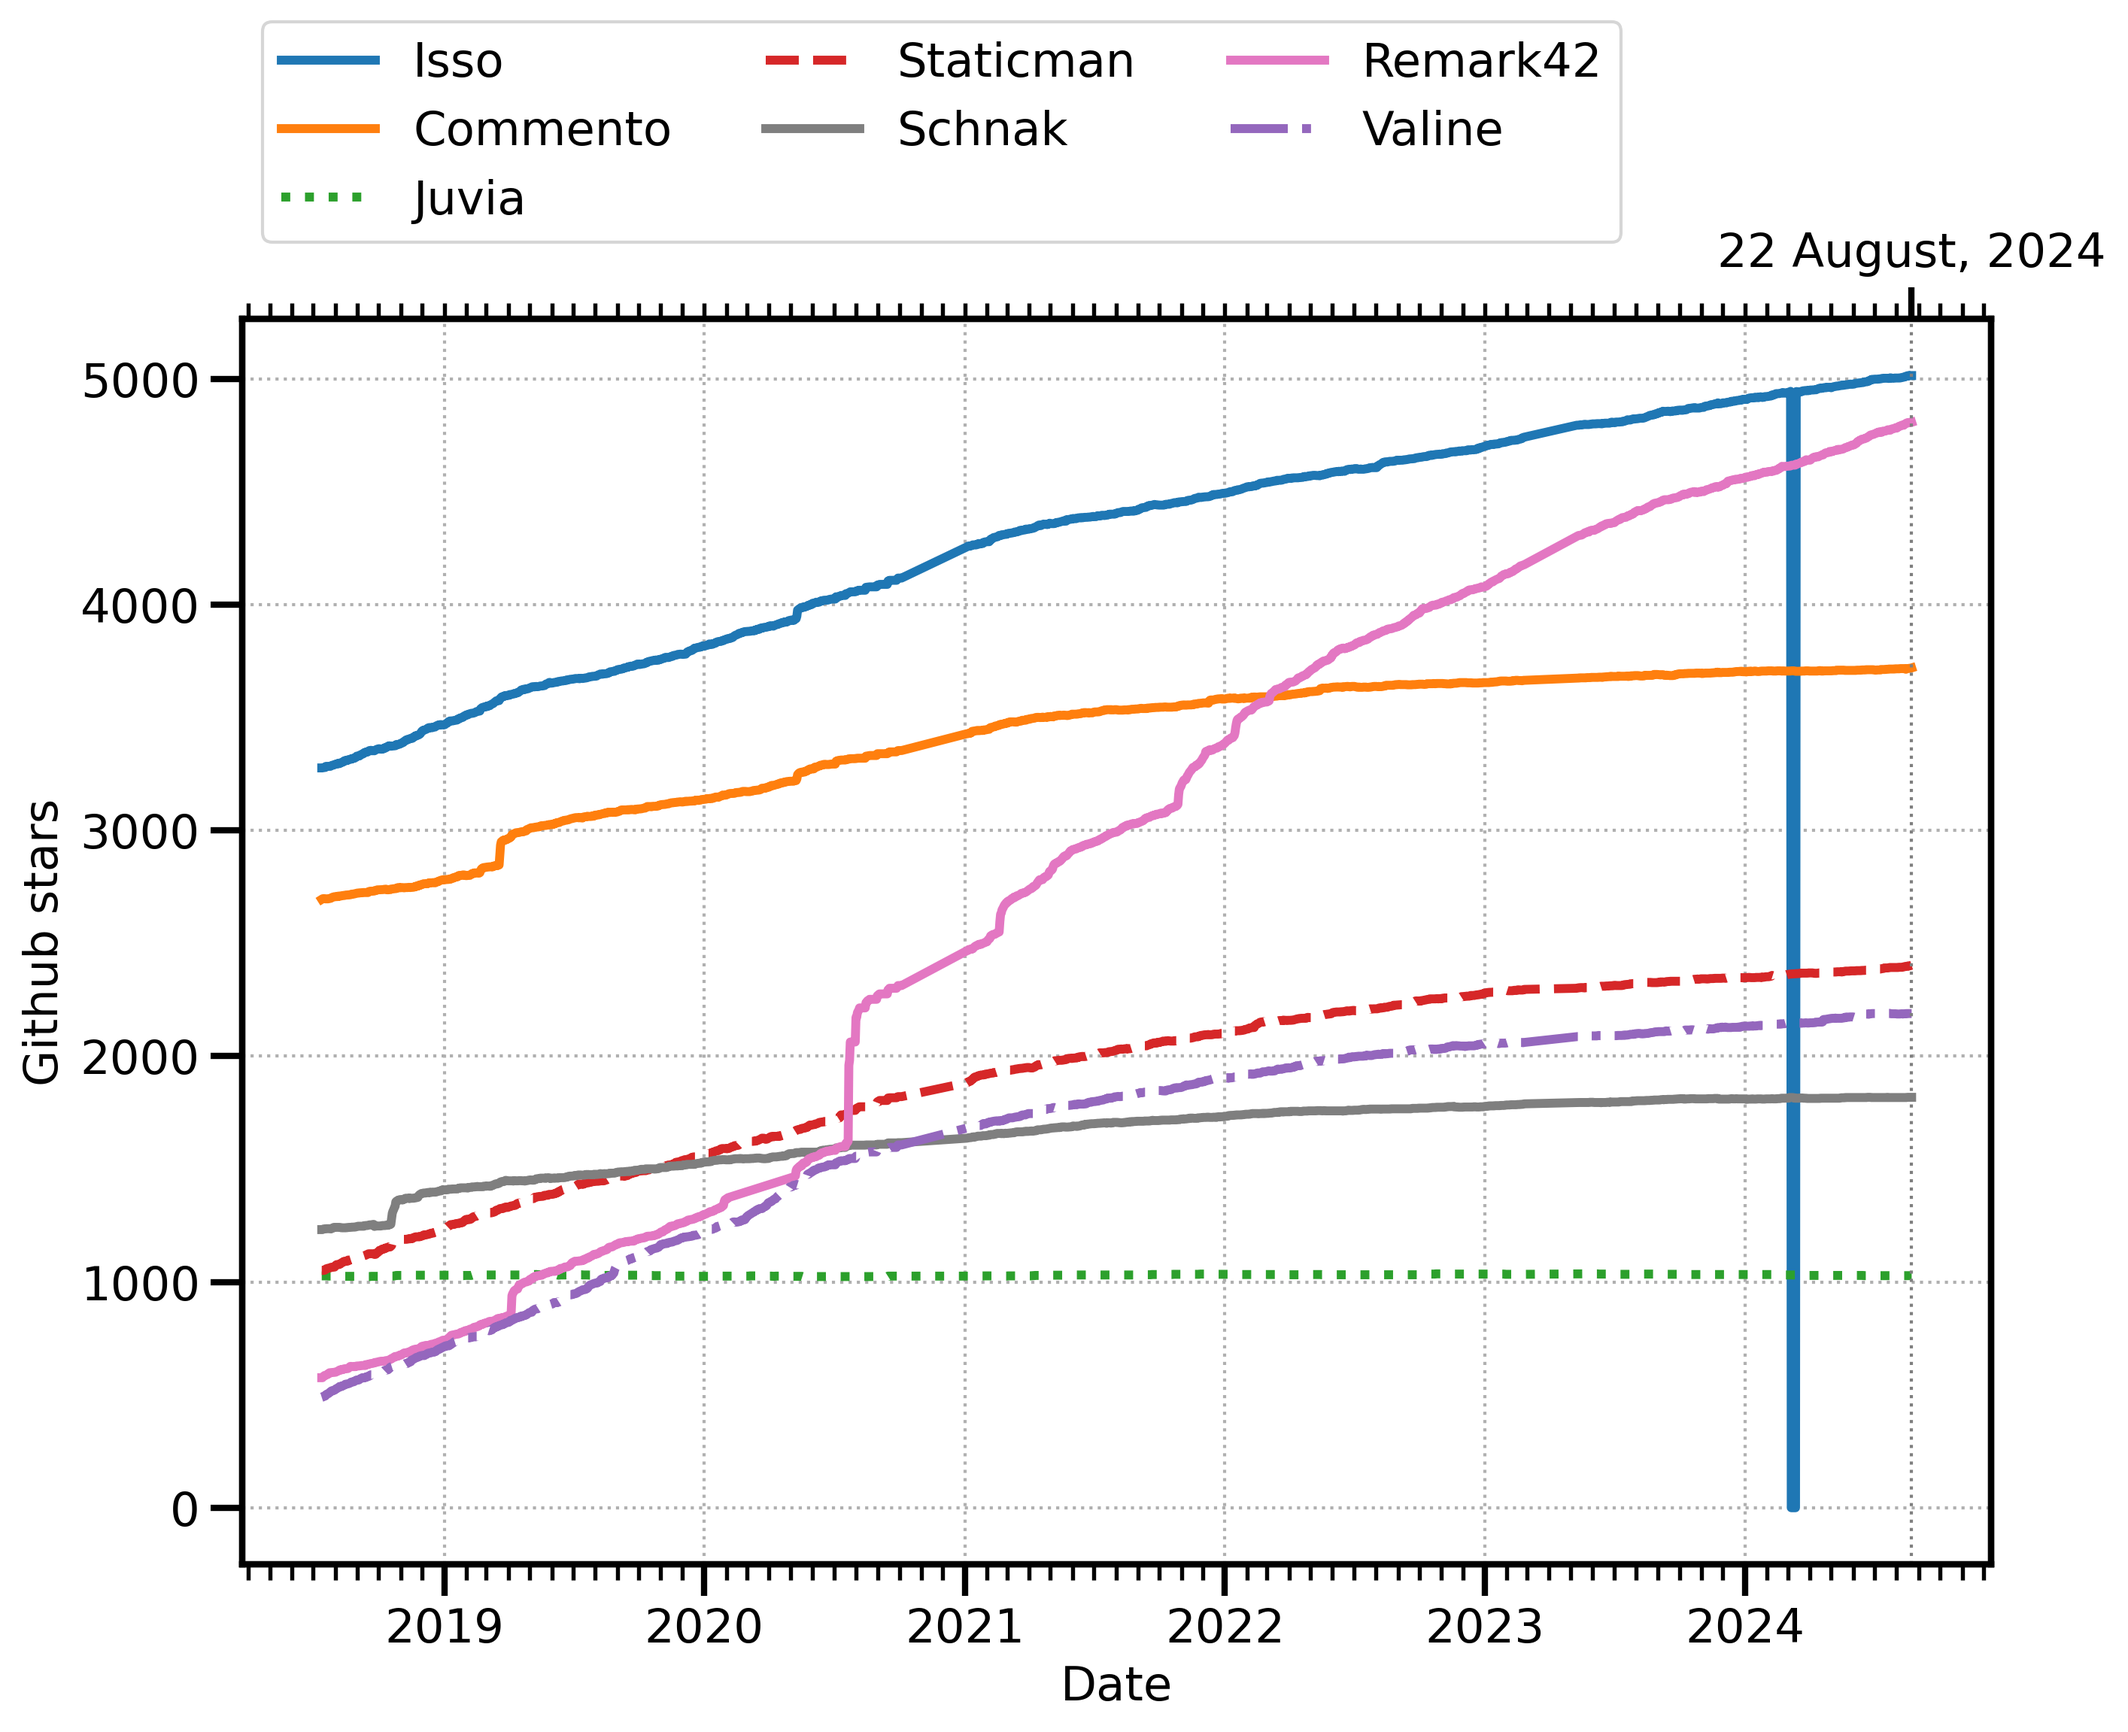
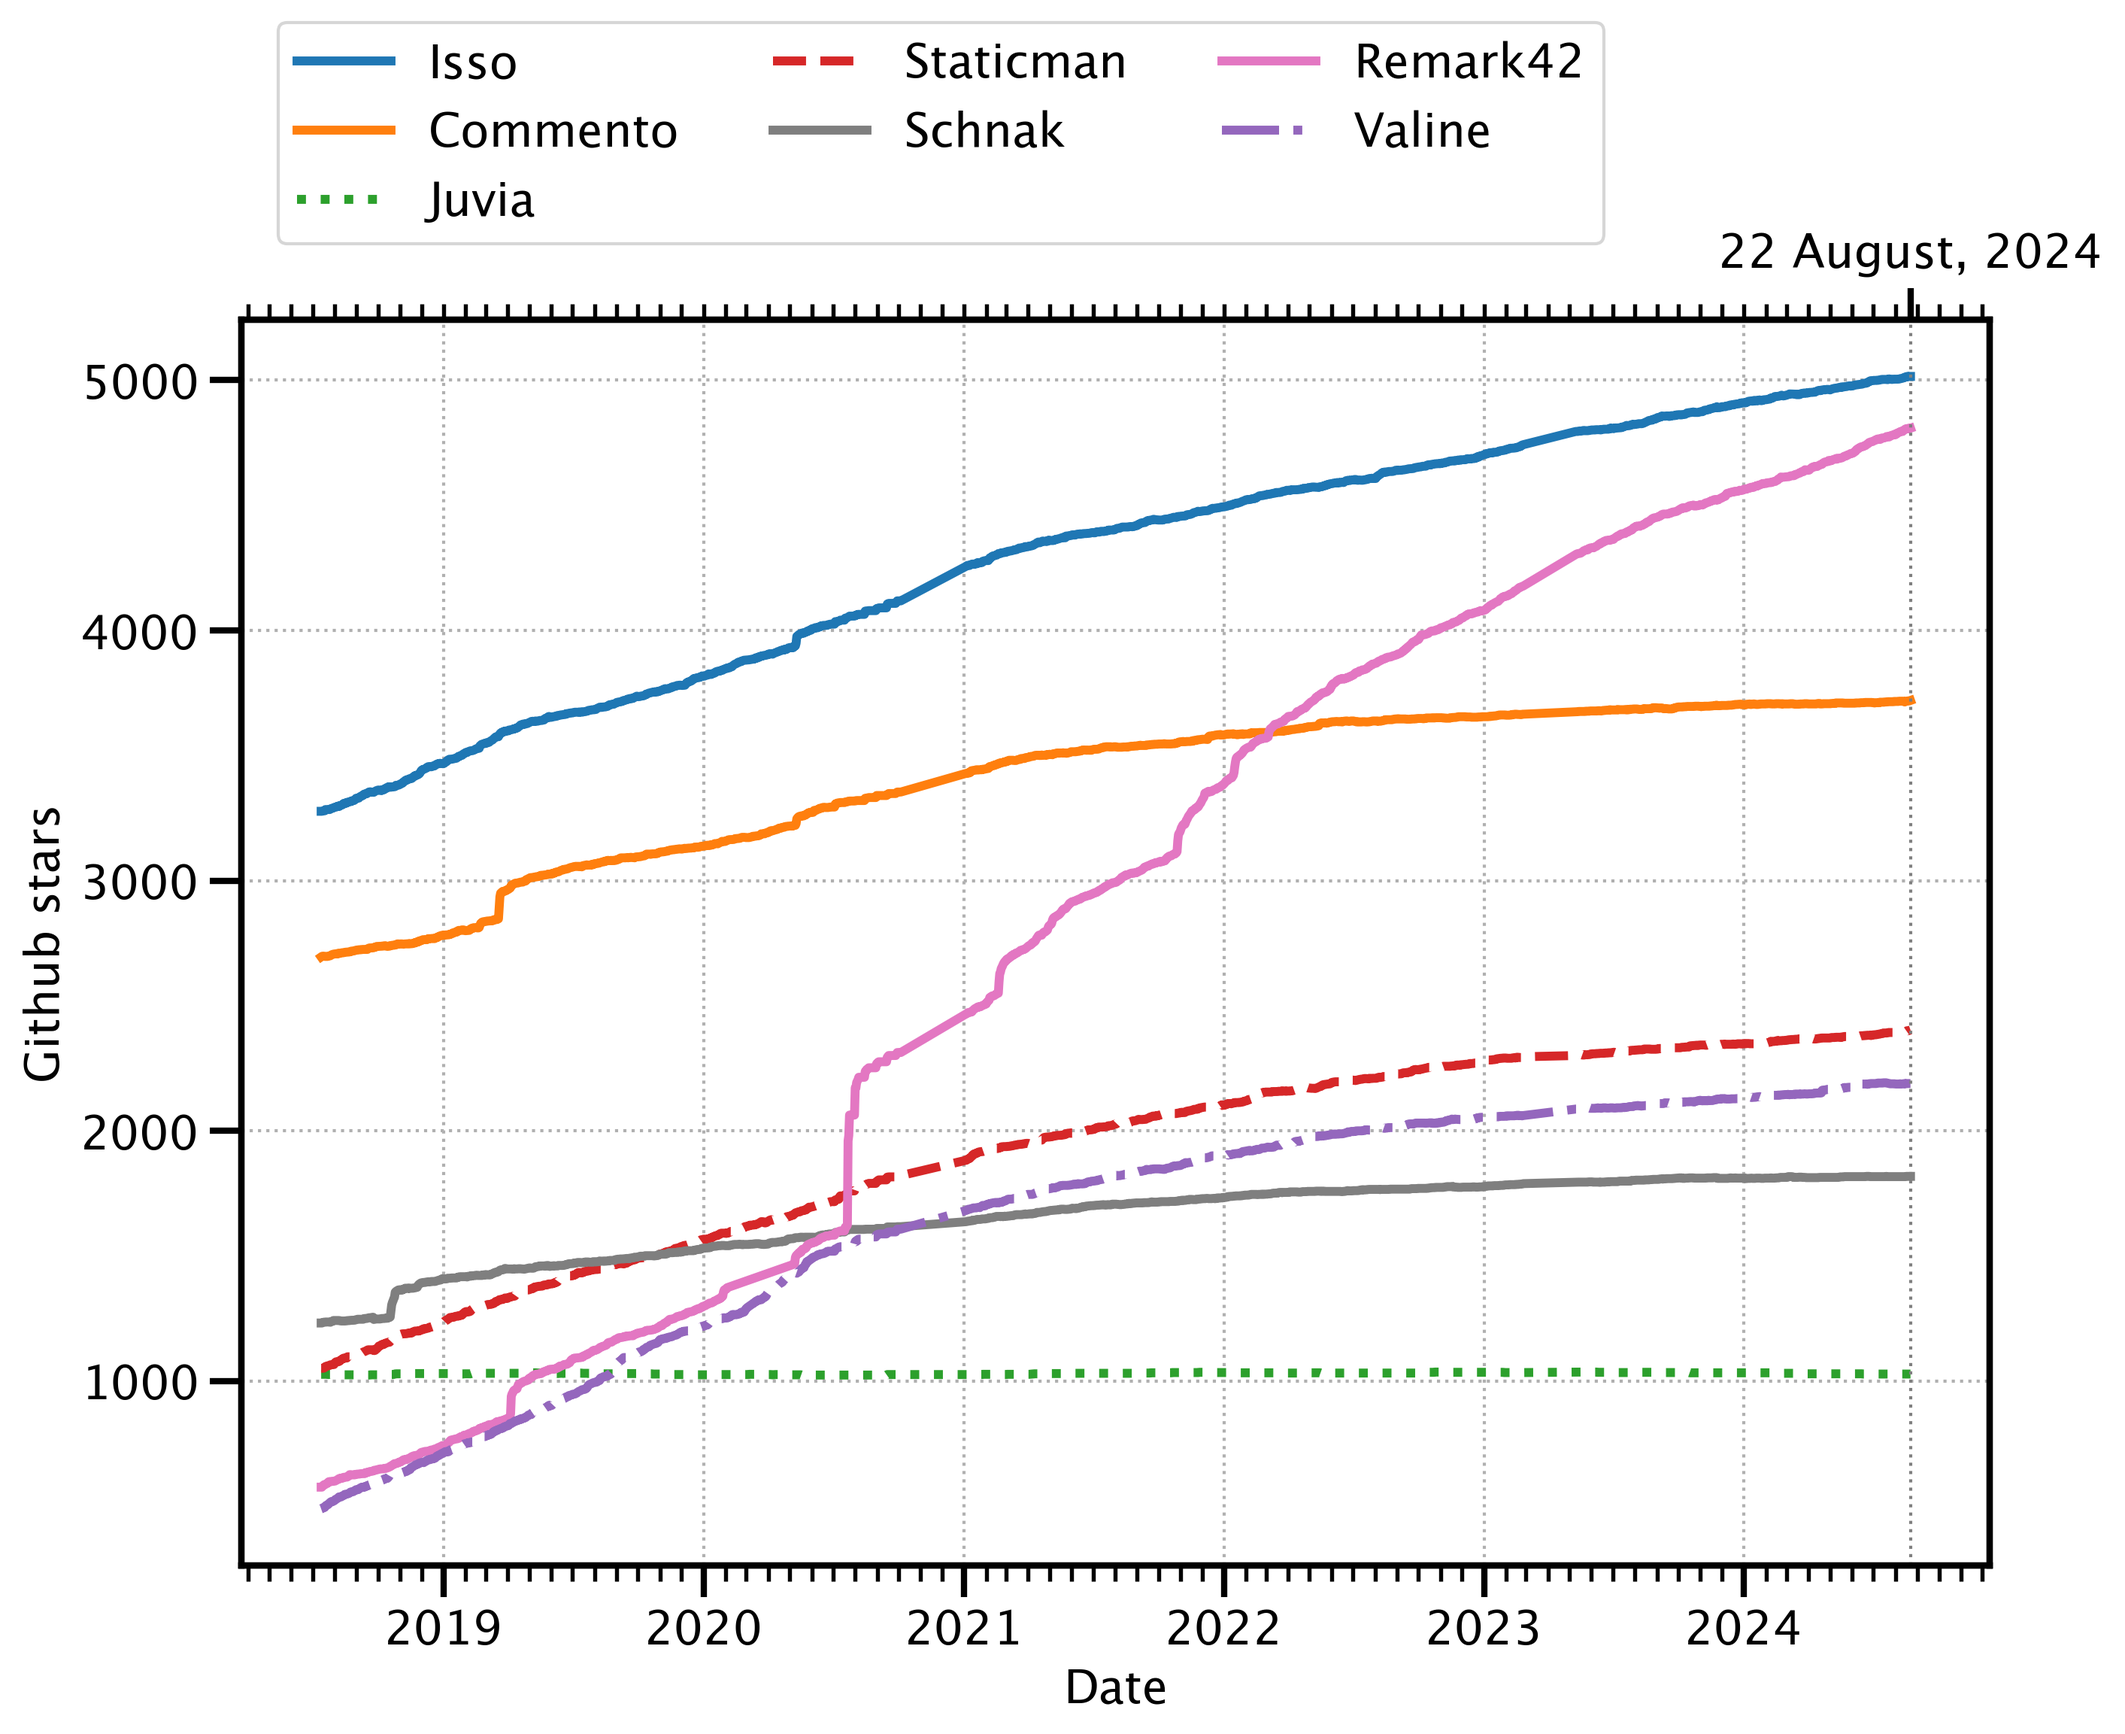
rm isso between 2024-3-6 and 2024-3-12 glitch

diff --git a/plot-stars.py b/plot-stars.py
@@ -1,6 +1,3 @@
-#! /usr/bin/env python 
-#coding=utf8
-
 '''
 Plot stars vs time for top competitors except Discourse.
 '''
@@ -75,8 +72,11 @@ for mydate in mydates:
                     pass
 
             if data.get('isso') and str(data['isso']['stars']).isdigit(): # remove undefined
-                isso_stars  = np.append(isso_stars, data['isso']['stars'])
-                isso_dates  = np.append(isso_dates, re.sub('file_', '', mydate))
+                date_str = re.sub('file_', '', mydate)
+                date_obj = datetime.datetime.strptime(date_str, '%Y-%m-%d').date()
+                if not (date_obj >= datetime.date(2024, 3, 6) and date_obj <= datetime.date(2024, 3, 12)):
+                    isso_stars  = np.append(isso_stars, data['isso']['stars'])
+                    isso_dates  = np.append(isso_dates, re.sub('file_', '', mydate))
 
             if data.get('commento') and str(data['commento']['stars']).isdigit(): # remove undefined
                 commento_stars  = np.append(commento_stars, data['commento']['stars'])
